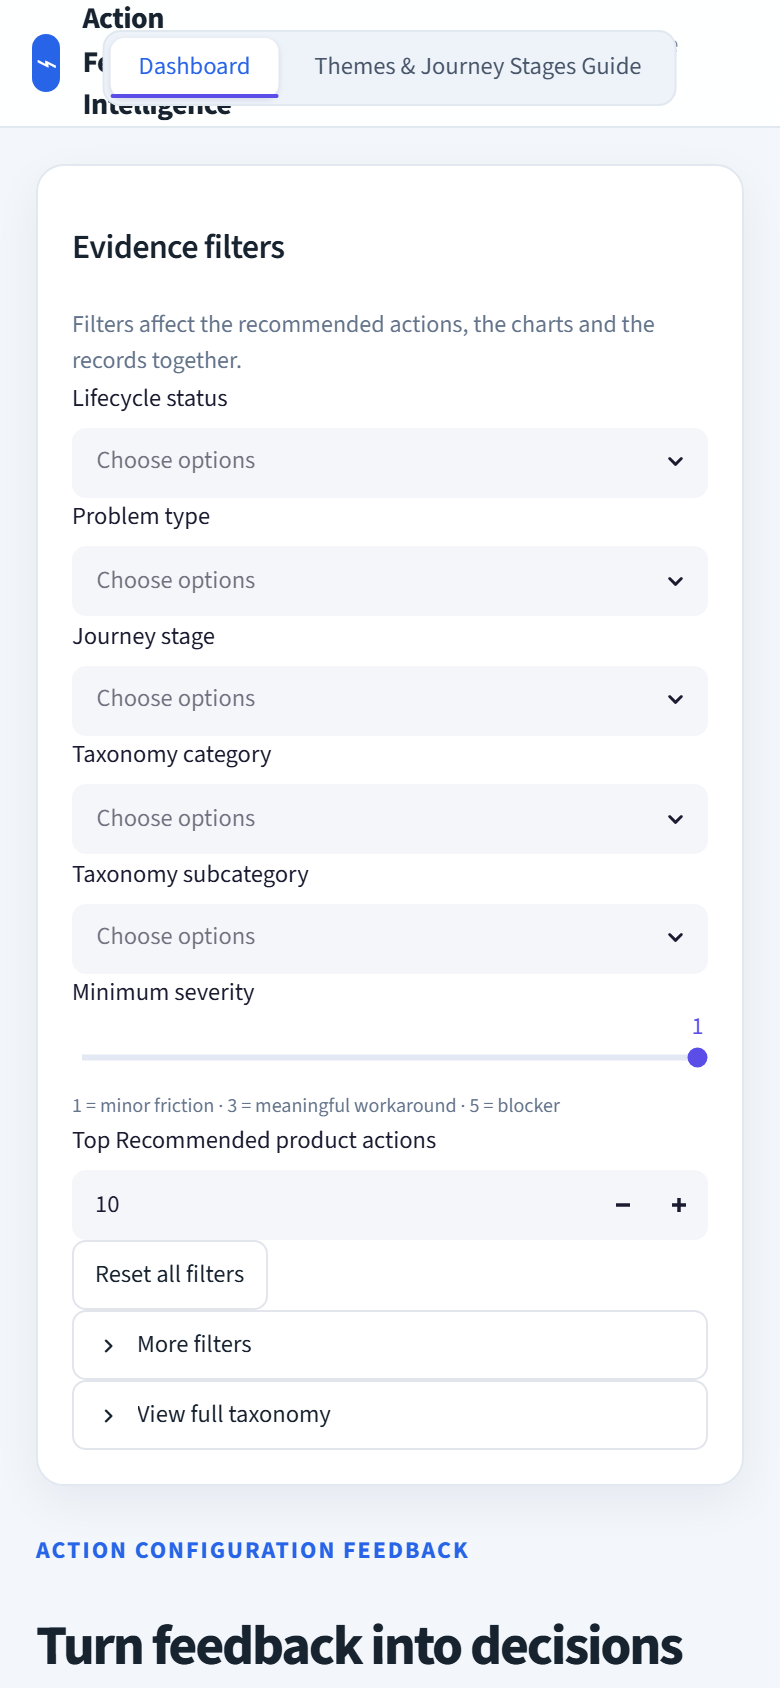
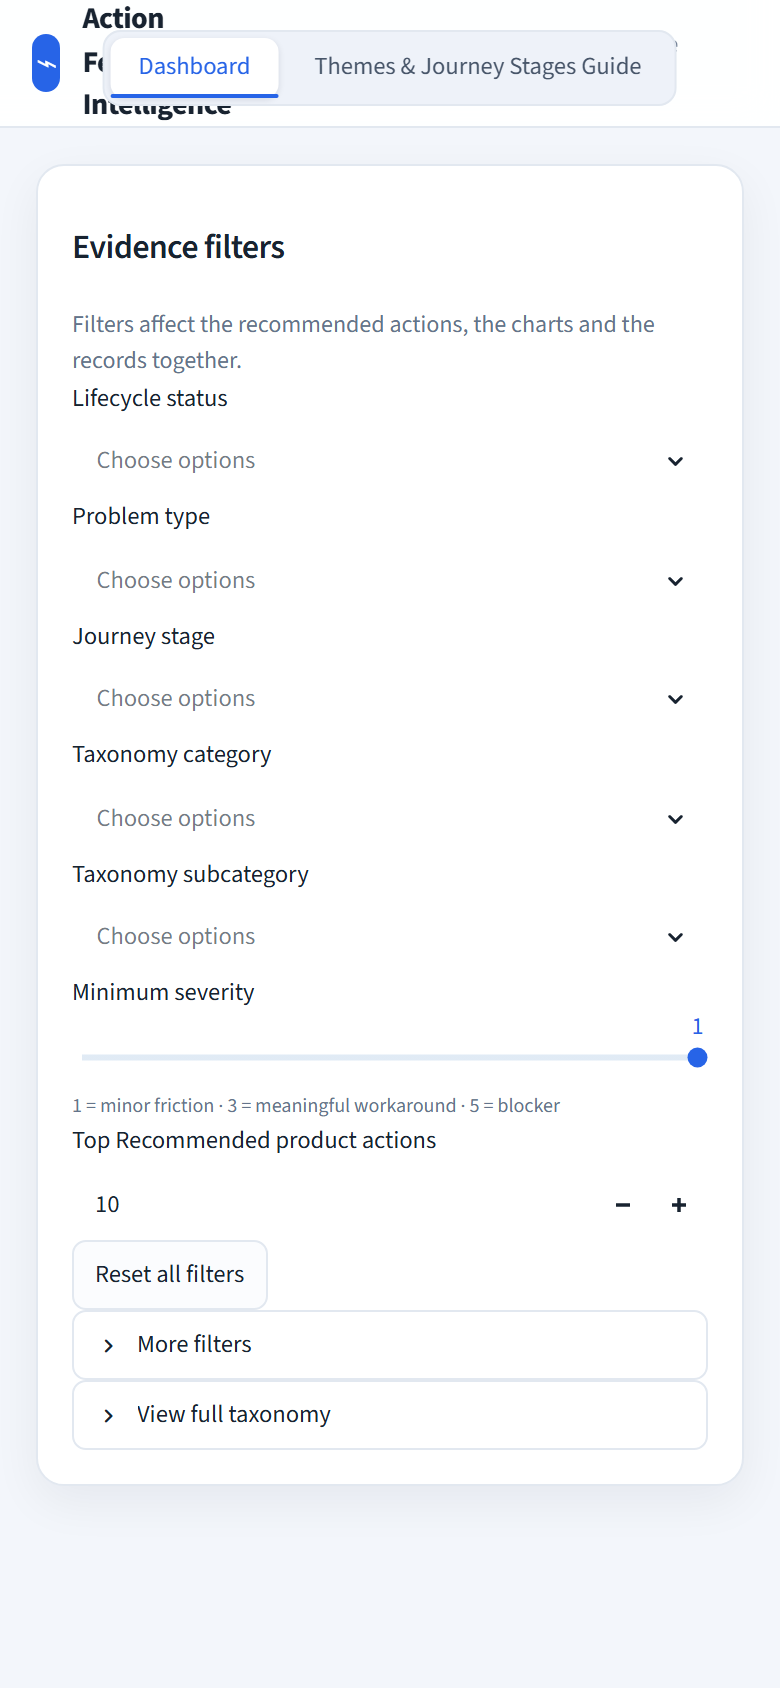
Remove the flat-theme comparison panel from the dashboard
The visual-parity brief kept 'What this changes compared with a flat-theme
dashboard' because it appeared in the mockup, while noting that removing it
would be a separate product decision. That decision has now been taken.

The panel and its .afi-why wrapper rule are gone. The shared .afi-comparison
two-column styling stays: the Guide still uses it for confusion pairs and the
severity/persona split, so deleting it would have broken a view nobody asked to
change. 'Feedback behind recommended actions' is now the last dashboard section.

The presence test became an absence test, and a second test pins the shared
compare block so a future cleanup cannot remove it along with the panel.
64 tests pass; layout parity is unchanged.

diff --git a/tests/test_ui.py b/tests/test_ui.py
@@ -52,7 +52,6 @@ ALLOWED_DASHBOARD_HEADINGS = {
     "Matching feedback by taxonomy category",
     "Matching feedback by Journey stage",
     "Feedback behind recommended actions",
-    "What this changes compared with a flat-theme dashboard",
 }
 
 # Headings from the previous dashboard. Any of these reappearing means a legacy
@@ -159,7 +158,6 @@ def test_dashboard_section_order():
         "render_journey_chart",
         "Feedback behind recommended actions",
         "render_feedback_cards",
-        "render_comparison_panel",
     ]
     positions = [source.index(token) for token in order]
     assert positions == sorted(positions), f"sections out of order: {order}"
@@ -208,12 +206,26 @@ def test_feedback_cards_hide_banned_metadata(records):
         assert banned not in html, f"banned metadata rendered: {banned}"
 
 
-def test_comparison_panel_present():
-    from src.ui.render import render_comparison_panel
+def test_comparison_panel_removed():
+    """Removed from the dashboard as a product decision, not merely hidden."""
+    import src.ui.render as render_mod
 
-    html = render_comparison_panel()
-    assert "What this changes compared with a flat-theme dashboard" in html
-    assert 'class="old"' in html and 'class="new"' in html
+    assert not hasattr(render_mod, "render_comparison_panel")
+    assert "render_comparison_panel" not in APP
+    assert "flat-theme dashboard" not in APP
+    assert "flat-theme dashboard" not in RENDER_SRC
+    # Check the rendered stylesheet, not the source text: a comment mentioning
+    # the removal is fine, a surviving rule is not.
+    from src.ui.theme import CSS
+
+    assert ".afi-why" not in CSS
+
+
+def test_guide_still_uses_the_two_column_compare_block():
+    """The shared .afi-comparison styling must survive the panel's removal."""
+    assert ".afi-comparison" in THEME
+    guide = APP[APP.index("def render_guide("):]
+    assert 'class="afi-comparison"' in guide
 
 
 def test_guide_is_a_separate_view():

diff --git a/src/ui/render.py b/src/ui/render.py
@@ -294,23 +294,3 @@ def render_filter_state(shown: int, total: int, open_count: int,
         f'<p class="afi-filter-state">Showing {shown} of {total} in-scope records · '
         f"{open_count} open · severity {min_severity}+{focused}</p>{back}</div>"
     )
-
-
-def render_comparison_panel() -> str:
-    return (
-        '<div class="afi-card afi-why">'
-        "<h2>What this changes compared with a flat-theme dashboard</h2>"
-        '<div class="afi-comparison">'
-        "<div class=\"old\"><strong>Flat theme only</strong><ul>"
-        "<li>“Backend &amp; invocation” becomes a catch-all.</li>"
-        "<li>Completed records can look like current demand.</li>"
-        "<li>General automation feedback can inflate Action Configuration insights.</li>"
-        "<li>Charts show a count, but not the root cause.</li>"
-        "</ul></div>"
-        "<div class=\"new\"><strong>Evidence-first multidimensional model</strong><ul>"
-        "<li>Product area and problem type are separate dimensions.</li>"
-        "<li>Lifecycle status is explicit in every ranking decision.</li>"
-        "<li>Out-of-scope feedback stays auditable but is excluded from every total.</li>"
-        "<li>Every recommendation can reveal the source records behind it.</li>"
-        "</ul></div></div></div>"
-    )

diff --git a/src/ui/theme.py b/src/ui/theme.py
@@ -273,9 +273,10 @@ a.afi-category-row:hover strong {{ color: var(--blue) !important; }}
   border: 1px dashed #cbd5e1; border-radius: 10px;
 }}
 
-/* ------------------------------------------------------- comparison panel */
-.afi-why {{ margin-top: 20px; padding: 19px; }}
-.afi-why h2 {{ font-size: 17px; letter-spacing: -.02em; margin: 0 0 12px; }}
+/* ---- two-column compare blocks -----------------------------------------
+   Still used by the Guide for confusion pairs and the severity/persona split.
+   The dashboard's comparison panel was removed as a product decision and its
+   wrapper rule went with it; these shared rules did not. */
 .afi-comparison {{ display: grid; grid-template-columns: 1fr 1fr; gap: 12px; }}
 .afi-comparison > div {{ border-radius: 10px; padding: 13px; }}
 .afi-comparison .old {{ background: #fff7ed; border: 1px solid #fed7aa; }}

diff --git a/scripts/capture_parity.py b/scripts/capture_parity.py
@@ -27,6 +27,7 @@ APP = "http://localhost:8504"
 VIEWPORTS = {"desktop": (1440, 1200), "mobile": (390, 844)}
 
 # (label, mockup selector, app selector)
+# No comparison-panel probe: that section was removed from the dashboard.
 PROBES = [
     ("topbar", ".topbar", ".afi-topbar"),
     ("sidebar", ".sidebar .panel", ".st-key-afi_rail"),
@@ -36,7 +37,6 @@ PROBES = [
     ("actions-panel", "#actionsSection", ".afi-actions"),
     ("charts-panel", "#featureAreasSection", ".st-key-afi_charts"),
     ("feedback-section", "#evidenceSection", ".st-key-afi_feedback"),
-    ("comparison", ".why", ".afi-why"),
 ]
 
 

diff --git a/app.py b/app.py
@@ -424,8 +424,6 @@ def render_dashboard() -> None:
                     height=0,
                 )
 
-        st.markdown(render.render_comparison_panel(), unsafe_allow_html=True)
-
 
 # ==========================================================================
 # Guide

diff --git a/V2_VISUAL_PARITY_REPORT.md b/V2_VISUAL_PARITY_REPORT.md
@@ -15,7 +15,6 @@ Screenshots and raw geometry: `docs/parity/`.
 | `docs/parity/mockup-mobile.png` / `app-mobile.png` | 390×844 side by side |
 | `docs/parity/*-full.png` | Full-page versions of all four |
 | `docs/parity/app-feedback-section.png` | Feedback cards at full width |
-| `docs/parity/app-comparison.png` | Final comparison panel |
 | `docs/parity/geometry.json` | Measured box for every probed element |
 
 ## Measured geometry — desktop, 1440×1200
@@ -32,7 +31,6 @@ Screenshots and raw geometry: `docs/parity/`.
 | Actions panel | 690×1928 @326,378 | 693×2802 @326,378 | x/y **exact**, w +3 |
 | Charts panel | 372×461 @1036,378 | 369×1234 @1039,378 | y **exact**, x +3 |
 | Feedback section | 1082×2804 @326 | 1082×10223 @326 | width/x **exact** |
-| Comparison panel | 1082×214 @326 | 1082×250 @326 | width/x **exact** |
 
 ## Measured geometry — mobile, 390×844
 
@@ -65,6 +63,16 @@ horizontal page scroll at either breakpoint.
 
 No unavoidable Streamlit limitation was left in place as a layout difference.
 
+## Later change: the comparison panel was removed
+
+The brief asked for `What this changes compared with a flat-theme dashboard` to
+be preserved *for that task*, noting that removing it would be a separate
+product decision. That decision was subsequently taken, and the panel is gone
+from the dashboard. Its `.afi-why` wrapper rule was deleted with it; the shared
+`.afi-comparison` two-column styling stays, because the Guide still uses it for
+confusion pairs and the severity/persona split. `Feedback behind recommended
+actions` is now the last dashboard section.
+
 ## Charts: Plotly was removed
 
 The mockup's "charts" are CSS bars (`.category-row` + `.bar > span`), not a
@@ -84,14 +92,14 @@ a test asserts that.
 
 ## Tests
 
-`python -m pytest tests/ -q` → **58 passed**
+`python -m pytest tests/ -q` → **64 passed**
 
-`tests/test_ui.py` (21 new) covers: no Scope filter, exactly four KPIs with the
+`tests/test_ui.py` (26) covers: no Scope filter, exactly four KPIs with the
 approved labels, no legacy KPI, exact chart titles, no Plotly and no old Theme
 chart, chronological journey order, dashboard section order, separate
 Category/Subcategory controls, filter-panel order, Top-actions default of 10,
 Source/Status/Created-date rendered separately, banned metadata absent, the
-comparison panel, the Guide as a separate view, both responsive breakpoints,
+comparison panel's removal, the Guide as a separate view, both responsive breakpoints,
 design tokens matching the mockup, Streamlit defaults neutralised, and that the
 UI renders pipeline data rather than hardcoded markup.
 

diff --git a/V2_VISUAL_PARITY_PLAN.md b/V2_VISUAL_PARITY_PLAN.md
@@ -22,7 +22,7 @@ Current Dashboard renders 10 sections. The whitelist allows 8 elements.
 | 8 | "Primary owner vs. also implicated" | **Remove from UI** (secondary labels stay on feedback cards; `secondary_table()` kept) |
 | 9 | "Evidence explorer" (`st.dataframe`) | **Replace** → "Feedback behind recommended actions", full-width card list |
 | 10 | "How good is the AI classification?" (QA panel) | **Remove from UI** (`evaluate.score()` kept in backend) |
-| — | Final comparison panel | **Missing — add** |
+| — | Final comparison panel | Added for parity, then **removed** as a separate product decision |
 | — | Custom top bar | **Missing — add** |
 
 Nothing is deleted from the backend. Only the Dashboard stops rendering it.
@@ -56,7 +56,7 @@ The mockup's KPI labels differ from V2's. Required labels, with V2-consistent ma
 | Label | Definition |
 |---|---|
 | Product actions | Distinct (category, subcategory) groups in the filtered in-scope set |
-| Open product actions | Those groups with ≥1 open record — the ones that get ranked |
+| Open product actions | Groups that are *entirely* unmet — nothing in them completed or closed |
 | High severity | Filtered records at severity ≥ 4 |
 | Needs human review | Filtered records flagged by the classifier |
 
@@ -67,7 +67,7 @@ Ranking itself is unchanged: still open-records-only, still lexicographic over t
 | File | Role |
 |---|---|
 | `src/ui/theme.py` | Design tokens + the full CSS sheet + Streamlit-default overrides |
-| `src/ui/render.py` | `render_topbar`, `render_hero`, `render_kpis`, `render_product_actions`, `render_taxonomy_chart`, `render_journey_chart`, `render_feedback_cards`, `render_comparison_panel` |
+| `src/ui/render.py` | `render_topbar`, `render_hero`, `render_kpis`, `render_product_actions`, `render_taxonomy_chart`, `render_journey_chart`, `render_feedback_cards` |
 | `app.py` | Orchestration, filter panel, navigation, Guide view |
 | `scripts/capture_parity.py` | Repeatable side-by-side screenshots at 1440×1200 and 390×844 |
 | `tests/test_ui.py` | Whitelist, section order, no-Scope-filter, breakpoints, real-data checks |
